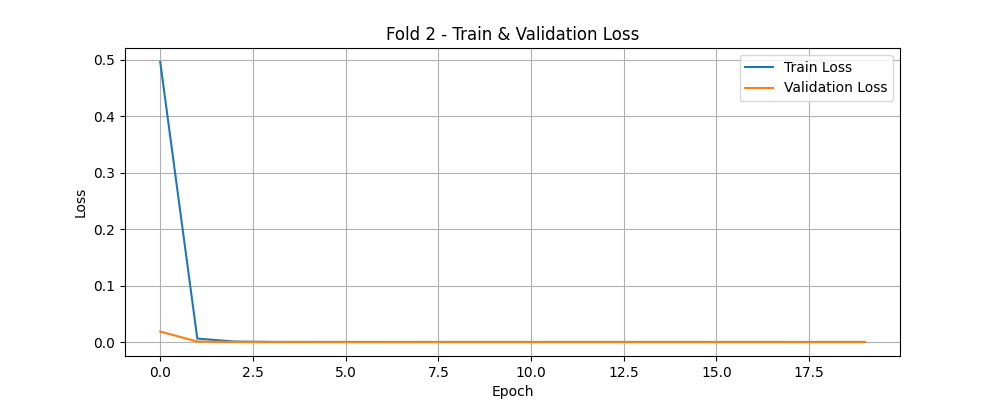
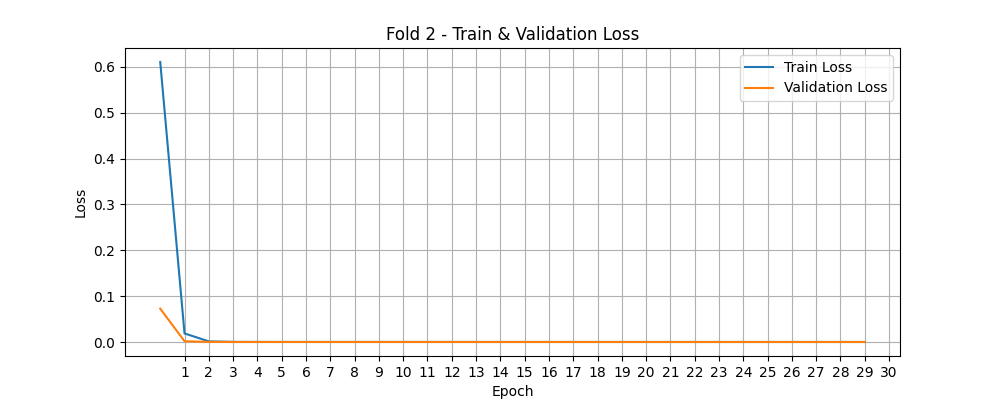
update

diff --git a/Deep_Neural_Networks/CNN/CNN_K_Fold.py b/Deep_Neural_Networks/CNN/CNN_K_Fold.py
@@ -9,6 +9,8 @@ from sklearn.preprocessing import MinMaxScaler
 from sklearn.metrics import accuracy_score
 import matplotlib.pyplot as plt
 import pandas as pd
+import time
+
 
 dataset_df = pd.read_csv("../../Dataset/train_dataset.csv")
 
@@ -29,6 +31,7 @@ batch_size=512
 device = torch.device("cuda" if torch.cuda.is_available() else "cpu")
 
 fold_accuracies = []
+train_time_l = []
 fold_n = 0
 
 for train_index, val_index in k_folds.split(features_tensor,label_tensor):
@@ -58,6 +61,8 @@ for train_index, val_index in k_folds.split(features_tensor,label_tensor):
     train_losses = []
     val_losses = []
     val_accuracies = []
+
+    train_time_start = time.time()
 
     for epoch in range(num_epochs):
         
@@ -100,10 +105,14 @@ for train_index, val_index in k_folds.split(features_tensor,label_tensor):
         val_losses.append(avg_val_loss)
         val_accuracies.append(val_accuracy)
 
+    train_time_end = time.time()
+    training_time = train_time_end - train_time_start
+    train_time_l.append(training_time)
     avg_accuracy = np.mean(val_accuracies)
     fold_accuracies.append(np.mean(avg_accuracy))
 
-    print(f"\n-> Fold {fold_n} Average Validation Accuracy: {avg_accuracy:.2f}%")
+    print(f"\n-> Fold {fold_n} Average Validation Accuracy: {avg_accuracy:.2f}%, Training Time: {training_time:.3f} seconds")
+
 
     plt.figure(figsize=(10, 4))
     plt.plot(train_losses, label="Train Loss")
@@ -111,30 +120,44 @@ for train_index, val_index in k_folds.split(features_tensor,label_tensor):
     plt.title(f"Fold {fold_n} - Train & Validation Loss")
     plt.xlabel("Epoch")
     plt.ylabel("Loss")
+    plt.xticks(range(1, num_epochs + 1))
     plt.legend()
     plt.grid(True)
     plt.savefig(f"CNN_K_Fold_plots/train_validation_loss_fold_{fold_n}.png")
 
     plt.figure(figsize=(10, 4))
-    plt.plot(val_accuracies, label="Validation Accuracy", color="green")
+    plt.plot(val_accuracies, label="Validation Accuracy")
     plt.title(f"Fold {fold_n} - Validation Accuracy")
     plt.xlabel("Epoch")
     plt.ylabel("Accuracy (%)")
+    plt.xticks(range(1, num_epochs + 1))
     plt.legend()
     plt.grid(True)
     plt.savefig(f"CNN_K_Fold_plots/validation_accuracy_fold_{fold_n}.png")
 
-print(f"\n-> Average K-Fold Accuracy: {np.mean(fold_accuracies):.2f}%\n")
+print("================================\n")
+print(f"-> Average K-Fold Accuracy: {np.mean(fold_accuracies):.2f}%\n")
+print(f"-> Average CNN Training Time: {np.mean(train_time_l):.2f} seconds\n")
 print("================================\n")
 
 plt.figure(figsize=(8, 5))
-plt.plot(range(1, k_folds_n + 1), fold_accuracies, marker='o')
+plt.plot(range(1, k_folds_n + 1), fold_accuracies, label="Accuracy", marker='o')
 plt.title("Validation Accuracy per Fold")
 plt.xlabel("Fold")
 plt.ylabel("Validation Accuracy (%)")
 plt.xticks(range(1, k_folds_n + 1))
+plt.legend()
 plt.grid(True)
 plt.savefig(f"CNN_K_Fold_plots/k_folds_accuracy.png")
+
+plt.figure(figsize=(10, 4))
+plt.plot(range(1, k_folds_n + 1), train_time_l, label="Time", marker='o')
+plt.title("Time to train")
+plt.xlabel("Epoch")
+plt.ylabel("Training Time")
+plt.legend()
+plt.grid(True)
+plt.savefig(f"CNN_K_Fold_plots/training_time.png")
 
 print("Plots saved:\n -> CNN/CNN_K_Fold_plots\n")
 print("================================\n")

diff --git a/Deep_Neural_Networks/MLP/MLP_K_Fold.py b/Deep_Neural_Networks/MLP/MLP_K_Fold.py
@@ -9,6 +9,7 @@ from sklearn.preprocessing import MinMaxScaler
 from sklearn.metrics import accuracy_score
 import matplotlib.pyplot as plt
 import pandas as pd
+import time
 
 dataset_df = pd.read_csv("../../Dataset/train_dataset.csv")
 
@@ -29,6 +30,7 @@ batch_size=512
 device = torch.device("cuda" if torch.cuda.is_available() else "cpu")
 
 fold_accuracies = []
+train_time_l = []
 fold_n = 0
 
 for train_index, val_index in k_folds.split(features_tensor,label_tensor):
@@ -51,11 +53,13 @@ for train_index, val_index in k_folds.split(features_tensor,label_tensor):
     optimizer = optim.Adam(model.parameters(), lr=0.001,weight_decay=0.0001)
     criterion = nn.CrossEntropyLoss()
 
-    num_epochs = 20
+    num_epochs = 40
 
     train_losses = []
     val_losses = []
     val_accuracies = []
+
+    train_time_start = time.time()
 
     for epoch in range(num_epochs):
         
@@ -99,6 +103,9 @@ for train_index, val_index in k_folds.split(features_tensor,label_tensor):
         val_losses.append(avg_val_loss)
         val_accuracies.append(val_accuracy)
 
+    train_time_end = time.time()
+    training_time = train_time_end - train_time_start
+    train_time_l.append(training_time)
     avg_accuracy = np.mean(val_accuracies)
     fold_accuracies.append(np.mean(avg_accuracy))
 
@@ -124,19 +131,29 @@ for train_index, val_index in k_folds.split(features_tensor,label_tensor):
     plt.savefig(f"MLP_K_Fold_plots/validation_accuracy_fold_{fold_n}.png")
 
 
-
-print(f"\n-> Average K-Fold Accuracy: {np.mean(fold_accuracies):.2f}%\n")
+print("================================\n")
+print(f"-> Average K-Fold Accuracy: {np.mean(fold_accuracies):.2f}%\n")
+print(f"-> Average CNN Training Time: {np.mean(train_time_l):.2f} seconds\n")
 print("================================\n")
 
-
 plt.figure(figsize=(8, 5))
-plt.plot(range(1, k_folds_n + 1), fold_accuracies, marker='o')
+plt.plot(range(1, k_folds_n + 1), fold_accuracies, label="Accuracy", marker='o')
 plt.title("Validation Accuracy per Fold")
 plt.xlabel("Fold")
 plt.ylabel("Validation Accuracy (%)")
 plt.xticks(range(1, k_folds_n + 1))
+plt.legend()
 plt.grid(True)
 plt.savefig(f"MLP_K_Fold_plots/k_folds_accuracy.png")
+
+plt.figure(figsize=(10, 4))
+plt.plot(range(1, k_folds_n + 1), train_time_l, label="Time", marker='o')
+plt.title("Time to train")
+plt.xlabel("Epoch")
+plt.ylabel("Training Time")
+plt.legend()
+plt.grid(True)
+plt.savefig(f"MLP_K_Fold_plots/training_time.png")
 
 print("Plots saved:\n -> MLP/MLP_K_Fold_plots\n")
 print("================================\n")
